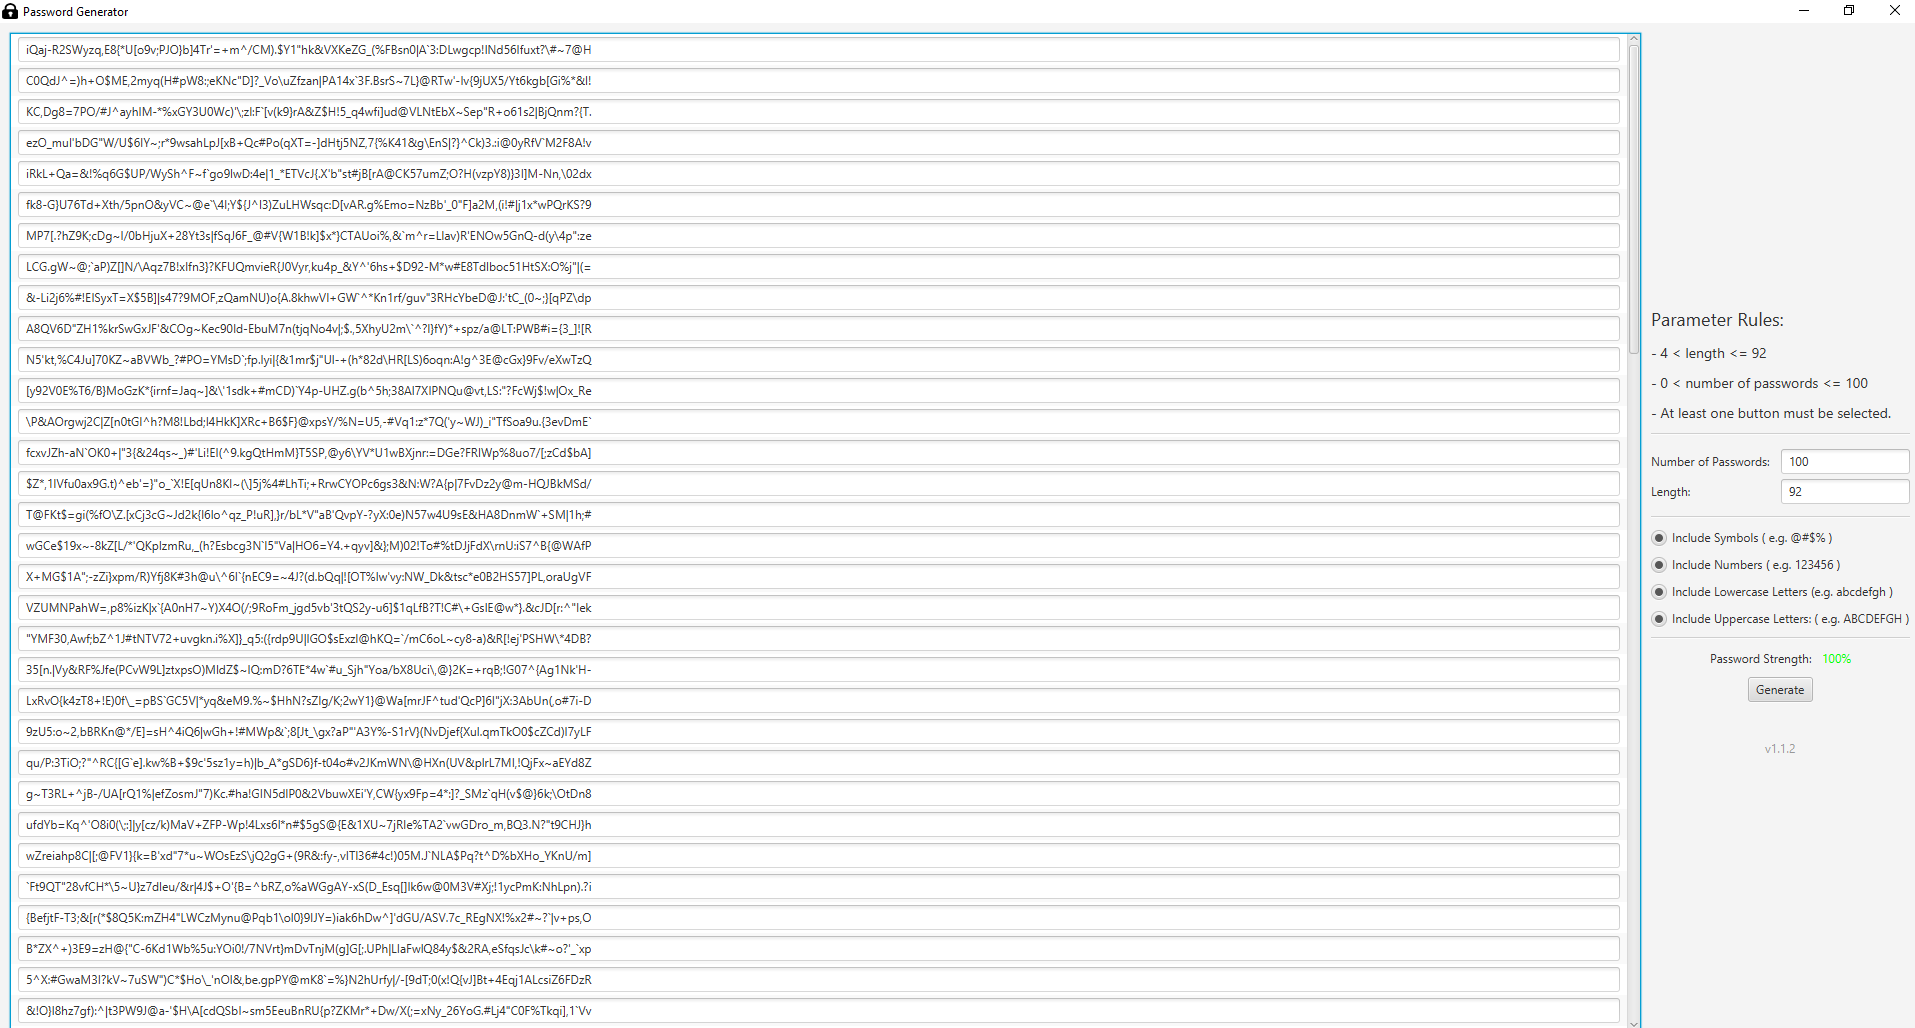
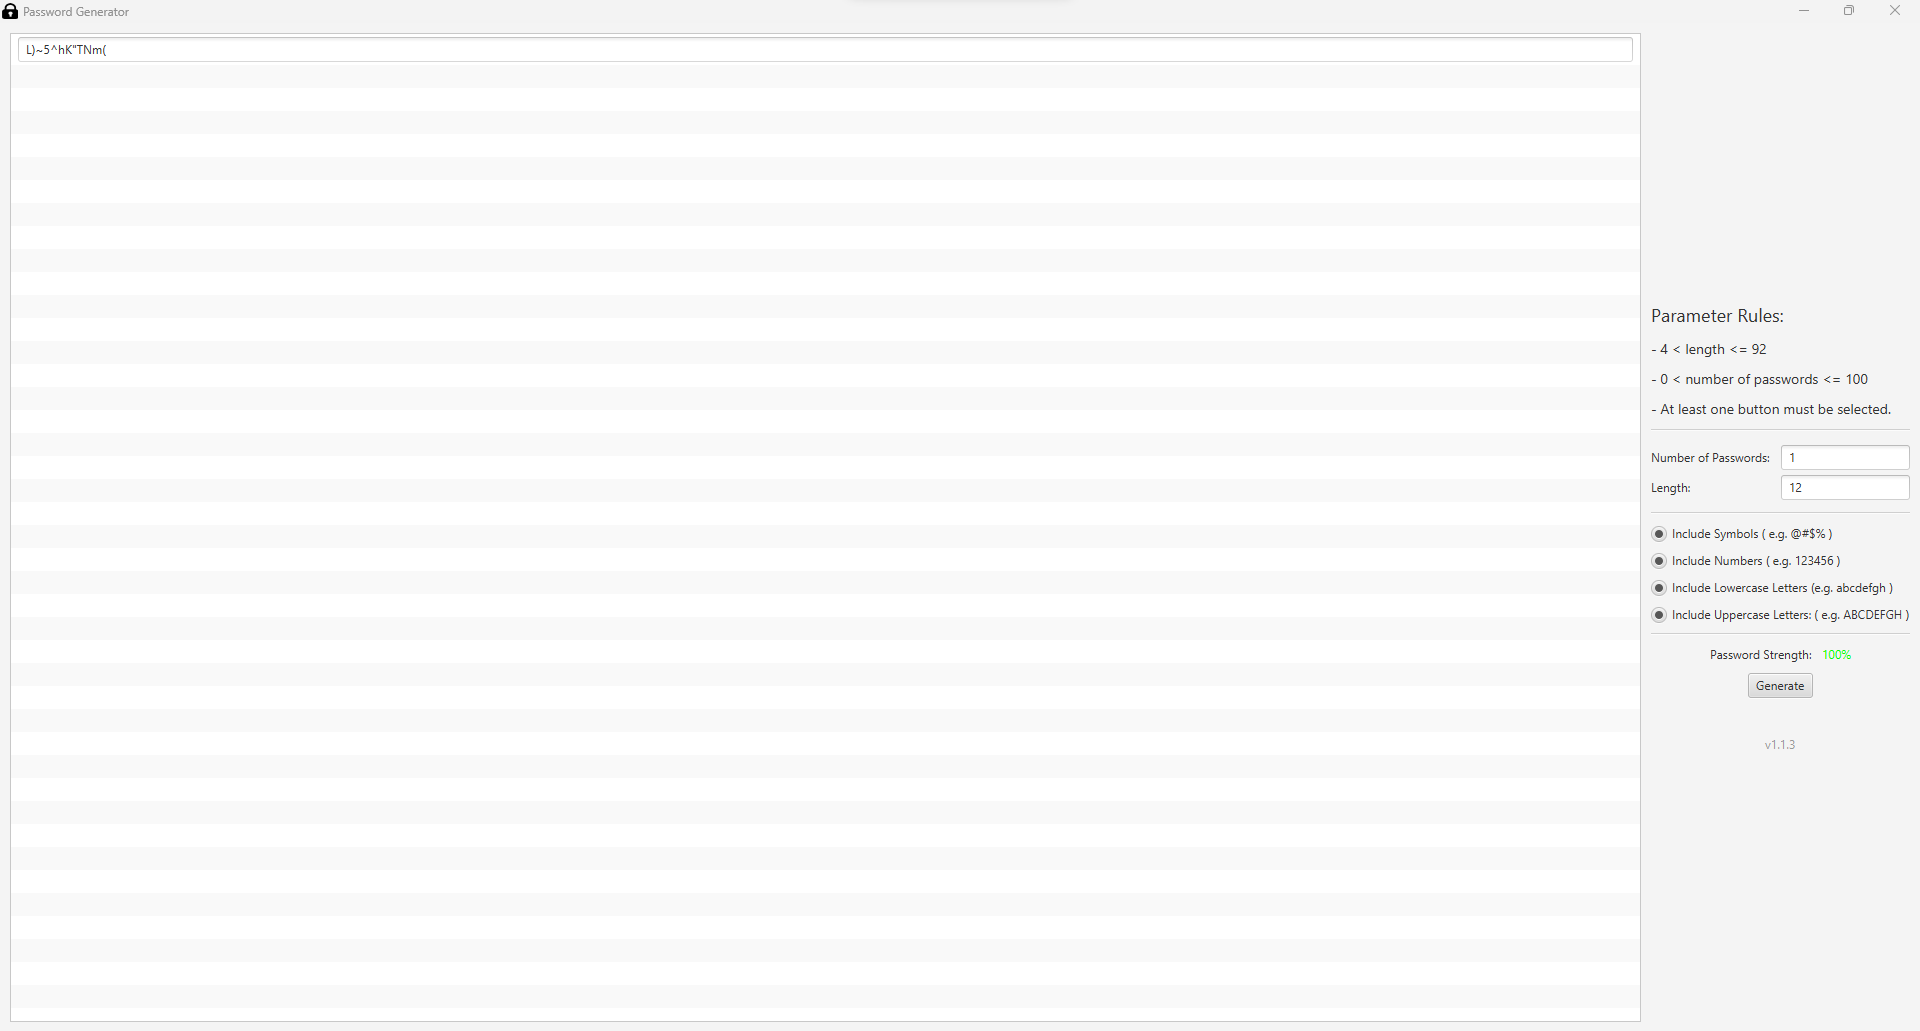
-Added file lock feature. -Updated version number label. -Updated screenshot.

Changed region(s): [[0.0, 0.0, 0.3389, 0.9961], [0.8319, 0.0311, 1.0, 0.9961]]

diff --git a/src/password/main/Main.java b/src/password/main/Main.java
@@ -1,6 +1,7 @@
 package password.main;
 
 import javafx.application.Application;
+import javafx.application.Platform;
 import javafx.fxml.FXMLLoader;
 import javafx.scene.Parent;
 import javafx.scene.Scene;
@@ -8,19 +9,49 @@ import javafx.scene.image.Image;
 import javafx.stage.Stage;
 import password.view.ScreenBounds;
 
+import java.io.File;
+import java.io.RandomAccessFile;
+import java.nio.channels.FileChannel;
+
 public class Main extends Application implements ScreenBounds {
+    static RandomAccessFile fileLock;
+
     @Override
     public void start(Stage primaryStage) throws Exception{
-        Parent root = FXMLLoader.load(getClass().getResource("/password/view/View.fxml"));
+        if(appNotLocked()) {
+            Parent root = FXMLLoader.load(getClass().getResource("/password/view/View.fxml"));
 
-        primaryStage.setTitle("Password Generator");
-        primaryStage.setScene(new Scene(root));
-        primaryStage.setMinWidth(SCREEN_WIDTH / 2.0);
-        primaryStage.setMinHeight(SCREEN_HEIGHT / 2.0);
-        primaryStage.getIcons().add(new Image("/password/view/icon.png"));
+            primaryStage.setTitle("Password Generator");
+            primaryStage.setScene(new Scene(root));
+            primaryStage.setMinWidth(SCREEN_WIDTH / 2.0);
+            primaryStage.setMinHeight(SCREEN_HEIGHT / 2.0);
+            primaryStage.getIcons().add(new Image("/password/view/icon.png"));
 
-        primaryStage.show();
+            primaryStage.show();
+        }
+    }
+
+    @Override
+    public void stop() throws Exception {
+        fileLock.close();
     }
 
     public static void main(String[] args) { launch(args); }
+
+    private boolean appNotLocked(){
+        try{
+            File file = new File("app_lock");
+            file.deleteOnExit();
+            fileLock = new RandomAccessFile(file,"rw");
+            FileChannel channel = fileLock.getChannel();
+
+            if(channel.tryLock() == null) {
+                Platform.exit();
+                return false;
+            }
+        }catch(Exception e) {
+            System.out.println(e);
+        }
+        return true;
+    }
 }
